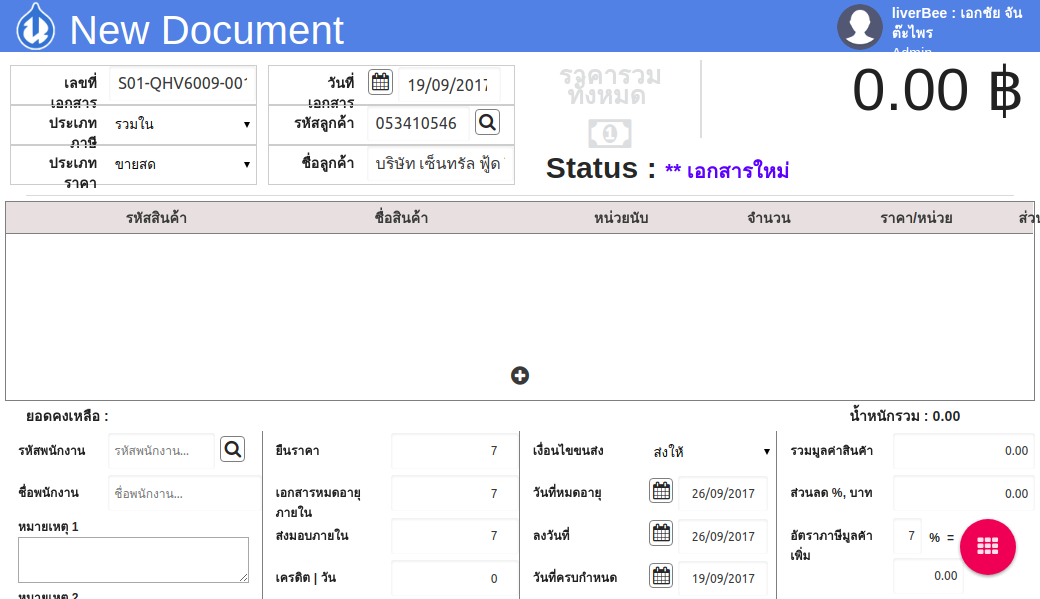
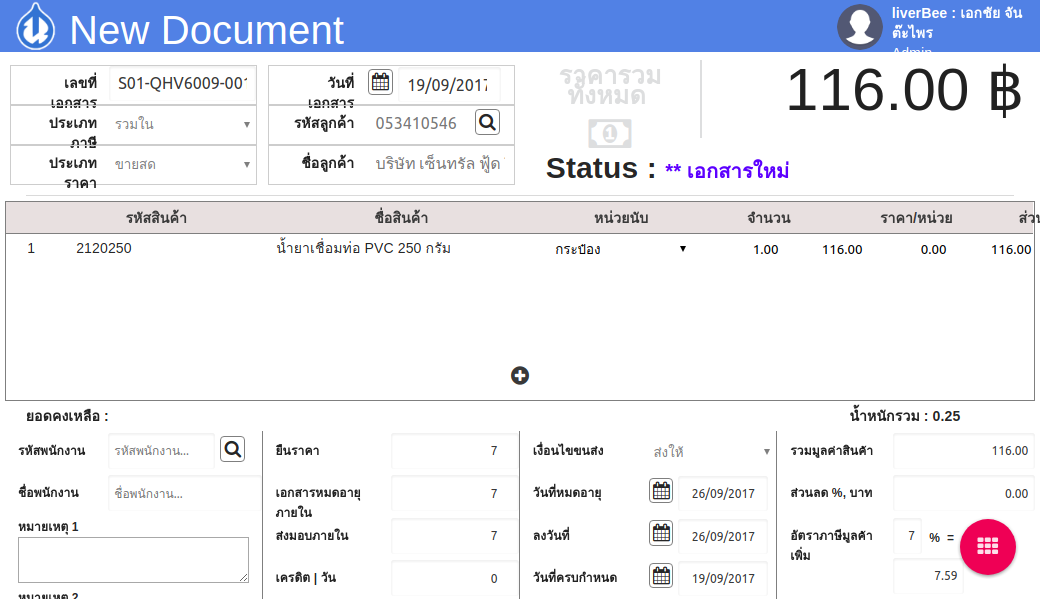
add set selenuim speed

diff --git a/report/log.html b/report/log.html
@@ -1727,25 +1727,25 @@ function stopPropagation(event) {
 window.output = {};
 </script>
 <script type="text/javascript">
-window.output["suite"] = [1,2,3,0,[],[0,0,18490],[],[[4,0,1,0,[],[0,68,18421,5],[[0,6,7,0,0,0,0,0,[1,69,7773],[[0,8,9,0,0,0,0,0,[1,70,3332],[[0,10,11,0,12,13,0,0,[1,70,3332],[],[[70,2,14]]]],[]],[0,15,7,0,0,16,0,0,[1,3402,98],[[0,17,11,0,18,19,0,0,[1,3403,97],[],[[3403,2,20]]]],[]],[0,21,7,0,0,22,0,0,[1,3500,81],[[0,23,11,0,24,25,0,0,[1,3501,80],[],[[3501,2,26]]]],[]],[0,27,7,0,0,0,0,0,[1,3581,71],[[0,28,11,0,29,30,0,0,[1,3582,70],[],[[3582,2,31]]]],[]],[0,32,7,0,0,33,0,0,[1,3652,4190],[[0,34,11,0,35,36,0,0,[1,3653,4065],[],[]],[0,37,11,0,38,0,0,0,[1,7718,123],[],[[7841,2,39]]]],[]]],[]],[0,40,40,0,0,0,0,0,[1,7842,1970],[[0,34,11,0,35,41,0,0,[1,7842,1737],[],[]],[0,28,11,0,29,42,0,0,[1,9579,104],[],[[9580,2,43]]],[0,28,11,0,29,44,0,0,[1,9683,90],[],[[9683,2,45]]],[0,34,11,0,35,46,0,0,[1,9773,39],[],[]]],[]],[0,47,47,0,0,0,0,0,[1,9812,211],[[0,48,11,0,49,50,0,0,[1,9813,32],[],[]],[0,51,11,0,52,50,0,0,[1,9845,152],[],[[9845,2,53]]],[0,34,11,0,35,54,0,0,[1,9997,26],[],[]]],[]],[0,55,56,0,0,0,0,0,[1,10024,2948],[[0,57,56,0,0,0,0,0,[1,10024,54],[[0,34,11,0,35,58,0,0,[1,10024,19],[],[]],[0,48,11,0,49,59,0,0,[1,10043,35],[],[]]],[]],[0,60,56,0,0,61,0,0,[1,10078,1277],[[0,62,11,0,63,64,0,0,[1,10078,832],[],[]],[0,65,11,0,66,59,0,0,[1,10910,16],[],[]],[0,51,11,0,52,59,0,0,[1,10927,62],[],[[10927,2,67]]],[0,68,11,0,69,70,0,0,[1,10989,2],[],[]],[0,62,11,0,63,64,0,0,[1,10992,237],[],[]],[0,65,11,0,66,71,0,0,[1,11229,23],[],[]],[0,17,11,0,18,72,0,0,[1,11252,103],[],[[11253,2,73]]]],[]],[0,74,56,0,0,0,0,0,[1,11356,1592],[[0,28,11,0,29,75,0,0,[1,11356,73],[],[[11357,2,76]]],[0,62,11,0,63,64,0,0,[1,11429,1444],[],[]],[0,51,11,0,52,77,0,0,[1,12873,74],[],[[12873,2,78]]]],[]],[0,79,56,0,0,80,0,0,[1,12948,24],[[0,34,11,0,35,36,0,0,[1,12949,23],[],[]]],[]]],[]],[0,81,82,0,0,0,0,0,[0,12972,5461],[[0,83,82,0,0,0,0,0,[1,12972,237],[[0,28,11,0,29,84,0,0,[1,12972,74],[],[[12973,2,85]]],[0,28,11,0,29,86,0,0,[1,13046,162],[],[[13046,2,87]]]],[]],[0,88,82,0,0,89,0,0,[0,13209,5224],[[0,62,11,0,63,64,0,0,[1,13209,18],[],[]],[0,48,11,0,49,90,0,0,[0,13227,5206],[[0,37,11,0,38,0,0,0,[1,18346,86],[],[[18432,2,91]]]],[[18433,5,5]]]],[]]],[]],[2,92,9,0,0,0,0,0,[1,18434,55],[[0,93,11,0,94,0,0,0,[1,18434,55],[],[]]],[]]]]],[],[1,0,1,0]];
+window.output["suite"] = [1,2,3,0,[],[0,0,26461],[],[[4,0,1,0,[],[0,69,26391,5],[[0,6,7,0,0,0,0,0,[1,70,5170],[[0,8,9,0,0,0,0,0,[1,71,3308],[[0,10,11,0,12,13,0,0,[1,71,3308],[],[[71,2,14]]]],[]],[0,15,7,0,0,16,0,0,[1,3379,96],[[0,17,11,0,18,19,0,0,[1,3380,95],[],[[3380,2,20]]]],[]],[0,21,7,0,0,22,0,0,[1,3475,82],[[0,23,11,0,24,25,0,0,[1,3476,81],[],[[3476,2,26]]]],[]],[0,27,7,0,0,0,0,0,[1,3558,78],[[0,28,11,0,29,30,0,0,[1,3558,78],[],[[3558,2,31]]]],[]],[0,32,7,0,0,33,0,0,[1,3637,1603],[[0,34,11,0,35,36,0,0,[1,3637,1504],[],[]],[0,37,11,0,38,0,0,0,[1,5141,99],[],[[5240,2,39]]]],[]]],[]],[0,40,40,0,0,0,0,0,[1,5241,1951],[[0,34,11,0,35,41,0,0,[1,5241,1708],[],[]],[0,28,11,0,29,42,0,0,[1,6949,78],[],[[6949,2,43]]],[0,28,11,0,29,44,0,0,[1,7028,104],[],[[7028,2,45]]],[0,34,11,0,35,46,0,0,[1,7133,59],[],[]]],[]],[0,47,47,0,0,0,0,0,[1,7192,218],[[0,48,11,0,49,50,0,0,[1,7192,31],[],[]],[0,51,11,0,52,50,0,0,[1,7224,162],[],[[7224,2,53]]],[0,34,11,0,35,54,0,0,[1,7387,23],[],[]]],[]],[0,55,56,0,0,0,0,0,[1,7410,1837],[[0,57,56,0,0,0,0,0,[1,7411,59],[[0,34,11,0,35,58,0,0,[1,7411,19],[],[]],[0,48,11,0,49,59,0,0,[1,7430,40],[],[]]],[]],[0,60,56,0,0,61,0,0,[1,7471,747],[[0,62,11,0,63,64,0,0,[1,7471,299],[],[]],[0,65,11,0,66,59,0,0,[1,7770,11],[],[]],[0,51,11,0,52,59,0,0,[1,7781,65],[],[[7781,2,67]]],[0,68,11,0,69,70,0,0,[1,7846,1],[],[]],[0,62,11,0,63,64,0,0,[1,7847,252],[],[]],[0,65,11,0,66,71,0,0,[1,8099,23],[],[]],[0,17,11,0,18,72,0,0,[1,8122,95],[],[[8122,2,73]]]],[]],[0,74,56,0,0,0,0,0,[1,8218,1010],[[0,28,11,0,29,75,0,0,[1,8218,80],[],[[8219,2,76]]],[0,62,11,0,63,64,0,0,[1,8299,857],[],[]],[0,51,11,0,52,77,0,0,[1,9156,72],[],[[9156,2,78]]]],[]],[0,79,56,0,0,80,0,0,[1,9228,19],[[0,34,11,0,35,36,0,0,[1,9228,18],[],[]]],[]]],[]],[0,81,82,0,0,0,0,0,[1,9247,13884],[[0,83,82,0,0,0,0,0,[1,9248,2262],[[0,28,11,0,29,84,0,0,[1,9248,145],[],[[9248,2,85]]],[0,86,11,0,87,88,0,0,[1,9393,1],[],[]],[0,51,11,0,52,89,0,0,[1,9395,2115],[],[[9395,2,90]]]],[]],[0,91,82,0,0,92,0,0,[1,11511,6975],[[0,62,11,0,63,64,0,0,[1,11511,2042],[],[]],[0,48,11,0,49,93,0,0,[1,13554,2089],[],[]],[0,86,11,0,87,94,0,0,[1,15644,1],[],[]],[0,48,11,0,49,95,0,0,[1,15646,1119],[],[]],[0,17,11,0,18,96,0,0,[1,16766,1719],[],[[16768,2,97]]]],[]],[0,98,82,0,0,0,0,0,[1,18487,2164],[[0,62,11,0,63,64,0,0,[1,18488,1045],[],[]],[0,51,11,0,52,95,0,0,[1,19533,1117],[],[[19534,2,99]]]],[]],[0,100,82,0,0,101,0,0,[1,20652,2478],[[0,34,11,0,35,36,0,0,[1,20655,1333],[],[]],[0,51,11,0,52,102,0,0,[1,21989,1140],[],[[21990,2,103]]]],[]]],[]],[0,104,105,0,0,0,0,0,[0,23132,2764],[[0,106,105,0,0,0,0,0,[0,23133,2763],[[0,28,11,0,29,107,0,0,[0,23134,2761],[[0,37,11,0,38,0,0,0,[1,25277,615],[],[[25891,2,108]]]],[[23136,2,109],[25894,5,5]]]],[]]],[]],[2,110,9,0,0,0,0,0,[1,25898,562],[[0,111,11,0,112,0,0,0,[1,25900,560],[],[]]],[]]]]],[],[1,0,1,0]];
 </script>
 <script type="text/javascript">
 window.output["strings"] = [];
 </script>
 <script type="text/javascript">
-window.output["strings"] = window.output["strings"].concat(["*","*Test Case","*/home/it9n/robot/robottest_uisale/test_case.robot","*../test_case.robot","*สร้างใบเสนอราคาขายสดด้วย user liverbee and password 1234","*Element 'id=SItem' was not visible in 5 seconds","*เข้าสู่ระบบสำเร็จ","*login","*เปิดเบราเซอร์แล้วพิมพ์ URL","*setting","*Open Browser","*Selenium2Library","*<p>Opens a new browser instance to given URL.\x3c/p>","*${URL}, ${Browser}","*Opening browser 'gc' to base url '<a href=\"http://venus/Sale_vue\">http://venus/Sale_vue\x3c/a>'","*กรอก Username","*liverbee","*Input Text","*<p>Types the given `text` into text field identified by `locator`.\x3c/p>","*${ช่อง Username}, ${username}","*Typing text 'liverbee' into text field '//*[@id=\"app\"]/div[1]/div/div[2]/form/div[1]/p/input'","*กรอก Password","*1234","*Input Password","*<p>Types the given password into text field identified by `locator`.\x3c/p>","*${ช่อง Password}, ${pwd}","*Typing password into text field '//*[@id=\"app\"]/div[1]/div/div[2]/form/div[2]/p/input'","*กดปุ่ม login","*Click Button","*<p>Clicks a button identified by `locator`.\x3c/p>","*${ปุ่ม login}","*Clicking button '//*[@id=\"app\"]/div[1]/div/div[2]/form/div[3]/p/button'.","*จะพบข้อความ","*ใบเสนอราคา","*Wait Until Page Contains","*<p>Waits until `text` appears on current page.\x3c/p>","*${output}","*Capture Page Screenshot","*<p>Takes a screenshot of the current page and embeds it into the log.\x3c/p>","*\x3c/td>\x3c/tr><tr><td colspan=\"3\"><a href=\"selenium-screenshot-1.png\"><img src=\"selenium-screenshot-1.png\" width=\"800px\">\x3c/a>","*สร้างเอกสารใหม่","*W01","*id=bt_tools","*Clicking button 'id=bt_tools'.","*id=new_doc","*Clicking button 'id=new_doc'.","*เลือกประเภทเอกสาร","*เลือกเมนูใบเสนอราคา","*Wait Until Element Is Visible","*<p>Waits until element specified with `locator` is visible.\x3c/p>","*${ปุ่ม ใบเสนอราคา}","*Click Element","*<p>Click element identified by `locator`.\x3c/p>","*Clicking element '//*[@id=\"app\"]/div[1]/div/button[1]'.","*เลขที่เอกสาร","*เลือกลูกค้า","*SearchCustomer","*กดปุ่มค้นหาลูกค้า1","*60","*${ปุ่มค้นหาลูกค้า}","*กรอกรหัสลูกค้า","*41054","*Wait Until Element Is Not Visible","*<p>Waits until element specified with `locator` is not visible.\x3c/p>","*id=loading","*Focus","*<p>Sets focus to element identified by `locator`.\x3c/p>","*Clicking element '//*[@id=\"app\"]/div[1]/div[1]/div[3]/div[4]'.","*Set Selenium Timeout","*<p>Sets the timeout in seconds used by various keywords.\x3c/p>","*5","*${ช่อง ค้นหาลูกค้า}","*${ช่อง ค้นหาลูกค้า}, ${CustomerCode}","*Typing text '41054' into text field '//*[@id=\"SCusto\"]/div[2]/section/div[2]/input'","*กดปุ่มค้นหาลูกค้า2","*${ปุ่มค้นหา}","*Clicking button '//*[@id=\"SCusto\"]/div[2]/section/div[3]/button'.","*//*[@id=\"SCusto\"]/div[2]/section/div[4]/div[1]","*Clicking element '//*[@id=\"SCusto\"]/div[2]/section/div[4]/div[1]'.","*จะพบชื่อลูกค้า","*บริษัท","*เลือกสินค้า","*SearchItem","*กดปุ่มค้นหาสินค้า","*${ปุ่มเพิ่มสินค้า}","*Clicking button '//*[@id=\"web-view\"]/button'.","*xpath=/html/body/div[3]/div[7]/div/button","*Clicking button 'xpath=/html/body/div[3]/div[7]/div/button'.","*กรอกรหัสสินค้า","*2120250","*id=SItem","*\x3c/td>\x3c/tr><tr><td colspan=\"3\"><a href=\"selenium-screenshot-2.png\"><img src=\"selenium-screenshot-2.png\" width=\"800px\">\x3c/a>","*ปิดหน้าเบราเซอร์","*Close Browser","*<p>Closes the current browser.\x3c/p>"]);
+window.output["strings"] = window.output["strings"].concat(["*","*Test Case","*/home/it9n/robot/robottest_uisale/test_case.robot","*../test_case.robot","*สร้างใบเสนอราคาขายสดด้วย user liverbee and password 1234","*ValueError: Element locator '//*[@id=\"app\"]/div[1]/div[1]/div[6]/div[1]/div[2]/i' did not match any elements.","*เข้าสู่ระบบสำเร็จ","*login","*เปิดเบราเซอร์แล้วพิมพ์ URL","*setting","*Open Browser","*Selenium2Library","*<p>Opens a new browser instance to given URL.\x3c/p>","*${URL}, ${Browser}","*Opening browser 'gc' to base url '<a href=\"http://venus/Sale_vue\">http://venus/Sale_vue\x3c/a>'","*กรอก Username","*liverbee","*Input Text","*<p>Types the given `text` into text field identified by `locator`.\x3c/p>","*${ช่อง Username}, ${username}","*Typing text 'liverbee' into text field '//*[@id=\"app\"]/div[1]/div/div[2]/form/div[1]/p/input'","*กรอก Password","*1234","*Input Password","*<p>Types the given password into text field identified by `locator`.\x3c/p>","*${ช่อง Password}, ${pwd}","*Typing password into text field '//*[@id=\"app\"]/div[1]/div/div[2]/form/div[2]/p/input'","*กดปุ่ม login","*Click Button","*<p>Clicks a button identified by `locator`.\x3c/p>","*${ปุ่ม login}","*Clicking button '//*[@id=\"app\"]/div[1]/div/div[2]/form/div[3]/p/button'.","*จะพบข้อความ","*ใบเสนอราคา","*Wait Until Page Contains","*<p>Waits until `text` appears on current page.\x3c/p>","*${output}","*Capture Page Screenshot","*<p>Takes a screenshot of the current page and embeds it into the log.\x3c/p>","*\x3c/td>\x3c/tr><tr><td colspan=\"3\"><a href=\"selenium-screenshot-1.png\"><img src=\"selenium-screenshot-1.png\" width=\"800px\">\x3c/a>","*สร้างเอกสารใหม่","*W01","*id=bt_tools","*Clicking button 'id=bt_tools'.","*id=new_doc","*Clicking button 'id=new_doc'.","*เลือกประเภทเอกสาร","*เลือกเมนูใบเสนอราคา","*Wait Until Element Is Visible","*<p>Waits until element specified with `locator` is visible.\x3c/p>","*${ปุ่ม ใบเสนอราคา}","*Click Element","*<p>Click element identified by `locator`.\x3c/p>","*Clicking element '//*[@id=\"app\"]/div[1]/div/button[1]'.","*เลขที่เอกสาร","*เลือกลูกค้า","*SearchCustomer","*กดปุ่มค้นหาลูกค้า1","*60","*${ปุ่มค้นหาลูกค้า}","*กรอกรหัสลูกค้า","*41054","*Wait Until Element Is Not Visible","*<p>Waits until element specified with `locator` is not visible.\x3c/p>","*id=loading","*Focus","*<p>Sets focus to element identified by `locator`.\x3c/p>","*Clicking element '//*[@id=\"app\"]/div[1]/div[1]/div[3]/div[4]'.","*Set Selenium Timeout","*<p>Sets the timeout in seconds used by various keywords.\x3c/p>","*5","*${ช่อง ค้นหาลูกค้า}","*${ช่อง ค้นหาลูกค้า}, ${CustomerCode}","*Typing text '41054' into text field '//*[@id=\"SCusto\"]/div[2]/section/div[2]/input'","*กดปุ่มค้นหาลูกค้า2","*${ปุ่มค้นหา}","*Clicking button '//*[@id=\"SCusto\"]/div[2]/section/div[3]/button'.","*//*[@id=\"SCusto\"]/div[2]/section/div[4]/div[1]","*Clicking element '//*[@id=\"SCusto\"]/div[2]/section/div[4]/div[1]'.","*จะพบชื่อลูกค้า","*บริษัท","*เลือกสินค้า","*SearchItem","*กดปุ่มค้นหาสินค้า","*${ปุ่มเพิ่มสินค้า}","*Clicking button '//*[@id=\"web-view\"]/button'.","*Set Selenium Speed","*<p>Sets the delay in seconds that is waited after each Selenium command.\x3c/p>","*1","*xpath=/html/body/div[3]/div[7]/div/button","*Clicking element 'xpath=/html/body/div[3]/div[7]/div/button'.","*กรอกรหัสสินค้า","*2120250","*id=SItem","*.5","*${ปุ่มค้นหาสินค้า}","*${ช่อง ค้นหาสินค้า}, ${Itemcode}","*Typing text '2120250' into text field '//*[@id=\"SItem\"]/div[2]/section/div[2]/input'","*กดปุ่มค้นหา","*Clicking element '//*[@id=\"SItem\"]/div[2]/section/div[3]/button'.","*จะพบชื่อสินค้า","*น้ำยาเชื่อมท่อ","*//*[@id=\"SItem\"]/div[2]/section/div[4]/div","*Clicking element '//*[@id=\"SItem\"]/div[2]/section/div[4]/div'.","*เลือกพนักงานขาย","*SearchSale","*กดปุ่มค้นหาพนักงานขาย","*${ปุ่มค้นหาพนักงาน}","*\x3c/td>\x3c/tr><tr><td colspan=\"3\"><a href=\"selenium-screenshot-2.png\"><img src=\"selenium-screenshot-2.png\" width=\"800px\">\x3c/a>","*Clicking button '//*[@id=\"app\"]/div[1]/div[1]/div[6]/div[1]/div[2]/i'.","*ปิดหน้าเบราเซอร์","*Close Browser","*<p>Closes the current browser.\x3c/p>"]);
 </script>
 <script type="text/javascript">
-window.output["stats"] = [[{"elapsed":"00:00:18","fail":1,"label":"Critical Tests","pass":0},{"elapsed":"00:00:18","fail":1,"label":"All Tests","pass":0}],[],[{"elapsed":"00:00:18","fail":1,"id":"s1","label":"Test Case","name":"Test Case","pass":0}]];
+window.output["stats"] = [[{"elapsed":"00:00:26","fail":1,"label":"Critical Tests","pass":0},{"elapsed":"00:00:26","fail":1,"label":"All Tests","pass":0}],[],[{"elapsed":"00:00:26","fail":1,"id":"s1","label":"Test Case","name":"Test Case","pass":0}]];
 </script>
 <script type="text/javascript">
 window.output["errors"] = [];
 </script>
 <script type="text/javascript">
-window.output["baseMillis"] = 1505791089400;
+window.output["baseMillis"] = 1505796567749;
 </script>
 <script type="text/javascript">
-window.output["generated"] = 18501;
+window.output["generated"] = 26473;
 </script>
 <script type="text/javascript">
 window.settings = {"defaultLevel":"INFO","minLevel":"INFO","reportURL":"report.html","splitLogBase":"log","title":""};

diff --git a/report/report.html b/report/report.html
@@ -1567,22 +1567,22 @@ storage = function () {
 window.output = {};
 </script>
 <script type="text/javascript">
-window.output["suite"] = [1,2,3,0,[],[0,0,18490],[],[[4,0,1,0,[],[0,68,18421,5],[]]],[],[1,0,1,0]];
+window.output["suite"] = [1,2,3,0,[],[0,0,26461],[],[[4,0,1,0,[],[0,69,26391,5],[]]],[],[1,0,1,0]];
 </script>
 <script type="text/javascript">
 window.output["strings"] = [];
 </script>
 <script type="text/javascript">
-window.output["strings"] = window.output["strings"].concat(["*","*Test Case","*/home/it9n/robot/robottest_uisale/test_case.robot","*../test_case.robot","*สร้างใบเสนอราคาขายสดด้วย user liverbee and password 1234","*Element 'id=SItem' was not visible in 5 seconds"]);
+window.output["strings"] = window.output["strings"].concat(["*","*Test Case","*/home/it9n/robot/robottest_uisale/test_case.robot","*../test_case.robot","*สร้างใบเสนอราคาขายสดด้วย user liverbee and password 1234","*ValueError: Element locator '//*[@id=\"app\"]/div[1]/div[1]/div[6]/div[1]/div[2]/i' did not match any elements."]);
 </script>
 <script type="text/javascript">
-window.output["stats"] = [[{"elapsed":"00:00:18","fail":1,"label":"Critical Tests","pass":0},{"elapsed":"00:00:18","fail":1,"label":"All Tests","pass":0}],[],[{"elapsed":"00:00:18","fail":1,"id":"s1","label":"Test Case","name":"Test Case","pass":0}]];
+window.output["stats"] = [[{"elapsed":"00:00:26","fail":1,"label":"Critical Tests","pass":0},{"elapsed":"00:00:26","fail":1,"label":"All Tests","pass":0}],[],[{"elapsed":"00:00:26","fail":1,"id":"s1","label":"Test Case","name":"Test Case","pass":0}]];
 </script>
 <script type="text/javascript">
-window.output["baseMillis"] = 1505791089400;
+window.output["baseMillis"] = 1505796567749;
 </script>
 <script type="text/javascript">
-window.output["generated"] = 18501;
+window.output["generated"] = 26473;
 </script>
 <script type="text/javascript">
 window.settings = {"background":{"fail":"#f66","nonCriticalFail":"#9e9","pass":"#9e9"},"logURL":"log.html","title":""};
